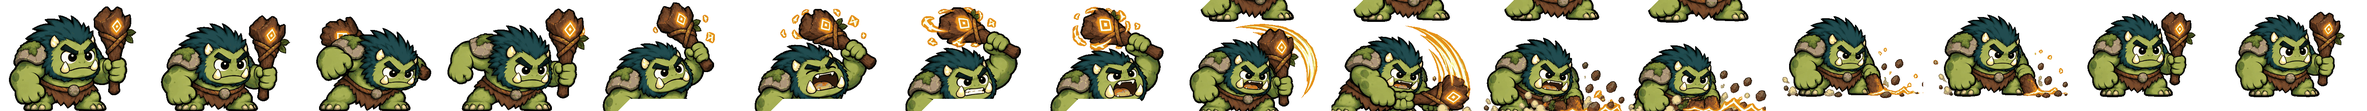
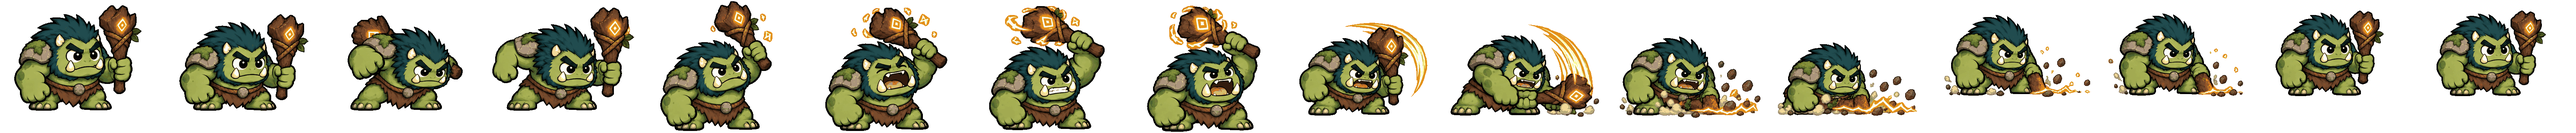
Repack his skill sheets, and stop the raid being over before you see it
Four things, all of them visible and none of them findable by reading code.

The Splitter had a diagonal tear through four frames. The uploads are grids,
but not tidy ones: in the wind-up rows he is drawn taller than his cell and his
feet hang into the row below. The first cut used the even grid and let a seam
DP route round the overlap, and the route it found went through him. No seam is
needed - every boundary on these sheets has a row or column of untouched pixels
within a third of a cell of where the grid says it should be, so a straight cut
at the quietest line separates the frames cleanly and the overhang travels with
the frame it belongs to. Each frame then goes back at its offset from its EVEN
cell origin, because that is the grid he was animated against; the overhang is
the animation, not an error to correct. Two of the Torchswing's boundaries have
no clear line anywhere near the grid - his arc genuinely reaches into the next
cell - so anything touching a cut edge and under 3% of the frame's largest mass
is somebody else's swing and is rubbed out. That was leaving a crescent of
frame 11's arc on frame 10.

He also shrank whenever he used a skill, which is a different problem with the
same cause: the three sheets draw him at three sizes. Against a cell of his
idle sheet he stands 279px tall doing nothing, 268 mid-swing, 261 mid-smash and
215 mid-roar, on canvases that are not even the same width. Nothing in the
[…]

diff --git a/index.html b/index.html
@@ -2132,29 +2132,41 @@ const RAID_BOSS = {
      a one-in-three roll it averages 1.9 and 15.4, and the pool came down to
      match. What was bought with that damage is that no two attempts open the
      same way. */
+  /* Each clip carries its own scale/dx/dy because the three sheets arrived at
+     three different sizes: measured against a cell of his idle sheet, he is
+     drawn 279 pixels tall standing still, 268 in the swing, 261 in the smash
+     and 215 in the warcry, on canvases that are not even the same width. A
+     sprite-view is the slot's width and whatever height its aspect implies,
+     so all three rendered him short, which is what "he gets smaller when he
+     uses a skill" was. These three numbers are not guesses: bossfit.mjs
+     screenshots his slot, differences it against the same slot with nothing
+     in it, and solves for the values that put his silhouette at the same
+     height, centre and foot line as the idle - which they now are, to within
+     a pixel. Re-run it if any of these sheets is ever redrawn; the sheet
+     geometry and these three numbers only make sense together. */
   kit: [
     { id:"uwaaargh", name:"UWAAAARGH!", ico:"\u{1F4E2}",
       blurb:"He stops to scream his own name at you. It is the only moment you will get.",
       battle:{ dmg:0, cd:6, stoke:{ mult:1.6, hits:2 },
                charge:{ spd:0.08, pow:0.20, max:2 } },
       sprite:{ src:"art/boss-skill-warcry.png", frames:16, rows:1, fps:7,
-               aspect:1.6266, scale:1, dx:0, dy:0 } },
+               aspect:1.7913, scale:1.60, dx:9.1, dy:6.2 } },
     { id:"splitter", name:"Splitter", ico:"\u{1FAA8}",
       blurb:"Both hands overhead, then down. The ground goes first and you go second.",
       battle:{ dmg:2.2, pierce:0.7, cd:4 },
       sprite:{ src:"art/boss-skill-smash.png", frames:16, rows:1, fps:9,
-               aspect:1.3285, scale:1, dx:0, dy:0 } },
+               aspect:1.2073, scale:1.15, dx:2.7, dy:17.7 } },
     /* Repacked from a second export. The first arrived as RGB on solid white,
        and keying that left a pale rim on 45.8% of his outline - anti-aliasing
        had smeared the black edge into the background, and the greys it left
        sat under any threshold that did not also eat his tusks. With real alpha
        the same measurement is 0.4%, against 0.8% and 0.0% for the sheets that
-       always had it. Same geometry, so nothing below changed. */
+       always had it. */
     { id:"torchswing", name:"Torchswing", ico:"\u{1F525}",
       blurb:"A flat, sweeping arc that takes everything at knee height with it.",
       battle:{ dmg:1.35, cd:2 },
       sprite:{ src:"art/boss-skill-swing.png", frames:16, rows:1, fps:9,
-               aspect:1.3285, scale:1, dx:0, dy:0 } }
+               aspect:1.3880, scale:1.19, dx:7.3, dy:8.9 } }
   ],
   /* Defence is low for a creature this size, and deliberately. It does not
      change how long anybody survives - that is entirely his power - it only
@@ -3824,8 +3836,8 @@ function spriteConfig(species, stage, level){
 /* Stamped into Settings so a device can say which build it is running. GitHub
    Pages caches index.html and offers no way to set headers on it, so a missing
    feature and a stale page look the same without this. */
-const BUILD_ID = "2026-09-22 e1f00e9";
-const ART_VERSION = "23";
+const BUILD_ID = "2026-09-22 5ffb4c3";
+const ART_VERSION = "24";
 function assetURL(src){
   return /^art\//.test(src) ? src + "?v=" + ART_VERSION : src;
 }
@@ -6362,6 +6374,21 @@ let btShown = null;
 const BT_BEAT  = 400;    // a plain attack: the lunge, then the hit
 const BT_AFTER = 340;    // ...and the pause before the next side moves
 
+/* A raid attempt is watched more than it is played, and it is short - he can
+   end a low-level pet in two blows - so at PvP's pace the whole thing was over
+   before you had read who moved first, and the end card landed on top of the
+   blow that caused it. These four hold the screen still at the points where
+   there is something to look at. The engine settled the fight the moment it
+   was seeded, so none of this can change it; it only decides how long you get
+   to see it. */
+const BT_OPEN     = 900;    // before anyone moves
+const BT_OPEN_BOSS= 2000;   // ...and longer against him: he fills the screen
+const BT_GAP      = 260;    // between one side finishing and the other starting
+const BT_GAP_BOSS = 620;
+const BT_END      = 420;    // the last blow, before the result covers it
+const BT_END_BOSS = 1500;   // the damage tag lives 1000ms; let it finish
+const BT_READ     = 1400;   // a milestone line, which nothing else will repeat
+
 function btClear(){ btTimers.forEach(clearTimeout); btTimers = []; }
 function btWait(fn, ms){ btTimers.push(setTimeout(fn, ms)); }
 
@@ -6411,7 +6438,7 @@ function startBattle(you, foe, opts){
   const foeName = battle.boss ? RAID_BOSS.short : foe.name;
   btSay(battle.turn === "a" ? `${esc(you.name)} moves first.` : `${esc(foeName)} is quicker off the mark.`);
   renderBattle();
-  if (battle.turn === "b") btWait(btFoeTurn, 900);
+  if (battle.turn === "b") btWait(btFoeTurn, battle.boss ? BT_OPEN_BOSS : BT_OPEN);
 }
 
 /* One child, always. The box centres with flex, and flex makes every text node
@@ -6453,21 +6480,23 @@ function btPaintBoss(force){
   $("#bt-foe-pet").innerHTML = spriteHTML(cfg, "okay");
 }
 
-/** The blow has landed: catch the bars up with what the engine already knows. */
+/** The blow has landed: catch the bars up with what the engine already knows.
+    Answers whether it crossed a mark, which is worth an extra beat on screen. */
 function btCatchUp(){
   const before = battle.boss ? btShown.b / battle.b.max : 1;
   btShown = { a: battle.a.cur, b: battle.b.cur, turn: battle.no };
   btBars();
-  if (!battle.boss) return;
+  if (!battle.boss) return false;
   /* Said the moment the bar crosses, over whatever the fight was saying. One
      blow can cross more than one mark, so the deepest is the one that gets
      the line - "he drops to one knee" reads oddly after "he staggers". */
   const crossed = raidCrossed(before, Math.max(0, battle.b.cur) / battle.b.max);
-  if (!crossed.length) return;
+  if (!crossed.length) return false;
   const m = crossed[crossed.length - 1];
   btSay(`<b>${esc(m.title)}.</b> ${esc(m.line)}`);
   $("#bt-foe-lv").textContent = bossPhase(Math.max(0, battle.b.cur) / battle.b.max).note;
   battle.crossed = (battle.crossed || []).concat(crossed.map(x => x.at));
+  return true;
 }
 
 /* The move buttons. A move on cooldown stays on screen with its count rather
@@ -6532,13 +6561,18 @@ function btRun(moveId){
     if (ev.self) btLand(actor, ev.self, false);
     if (ev.burn) btLand(actor, ev.burn, false);
     if (ev.heal) btLand(actor, ev.heal, true);
-    btCatchUp();
+    const crossed = btCatchUp();
 
     btWait(() => {
       btLock = false;
-      if (battle.over) return btFinish();
+      // A blow that took him past a mark put a line on screen; it is the only
+      // time it is said, so it gets read before anything replaces it.
+      const read = crossed ? BT_READ : 0;
+      if (battle.over)
+        return btWait(btFinish, read + (battle.boss ? BT_END_BOSS : BT_END));
       renderBattle();
-      if (battle.turn === "b") btWait(btFoeTurn, 260);
+      if (battle.turn === "b")
+        btWait(btFoeTurn, read + (battle.boss ? BT_GAP_BOSS : BT_GAP));
       else if (ev.again) btSay(`<b>${battle.a.name}</b> is fast enough to go again.`);
     }, BT_AFTER);
   }, beat);
@@ -6566,11 +6600,27 @@ function btFinish(){
   const won = battle.winner === "a";
   const left = won ? battle.a.cur : battle.b.cur;
   const of   = won ? battle.a.max : battle.b.max;
+  const turns = `${battle.no} turn${battle.no === 1 ? "" : "s"}`;
   $("#bt-end-ico").textContent = won ? "\u{1F3C6}" : "\u{1F4A4}";
   $("#bt-end-h").textContent = won ? "You win" : "You lost";
-  $("#bt-end-p").textContent = won
-    ? `${battle.a.name} saw off ${battle.b.name} in ${battle.no} turns, with ${left} of ${of} left.`
-    : `${battle.b.name} had ${left} of ${of} still in the tank after ${battle.no} turns.`;
+  /* A raid is scored on what you took off him, not on what is left of him -
+     "2800 of 2800 still in the tank" is a true sentence that tells an attempt
+     nothing about itself, and the whole point of one attempt is its share.
+     Losing is the normal outcome, so the line has to be worth reading anyway. */
+  if (battle.boss){
+    /* What this attempt took, which is hpAtStart minus what is left - not
+       1 - cur/max. He enters a raid on whatever everybody else has already
+       left him, so that figure is the raid's progress and would credit one
+       attempt with weeks of other people's running. */
+    const on   = Math.max(0, battle.b.cur) / battle.b.max * 100;
+    const chip = (battle.hpAtStart - Math.max(0, battle.b.cur)) / battle.b.max * 100;
+    const took = chip >= 0.05 ? `took ${chip.toFixed(1)}% off him` : "did not mark him";
+    $("#bt-end-p").textContent = won
+      ? `${battle.a.name} put ${RAID_BOSS.short} down in ${turns}, finishing the last ${chip.toFixed(1)}%.`
+      : `${turns}, and you ${took}. He is on ${on.toFixed(1)}%.`;
+  } else $("#bt-end-p").textContent = won
+    ? `${battle.a.name} saw off ${battle.b.name} in ${turns}, with ${left} of ${of} left.`
+    : `${battle.b.name} had ${left} of ${of} still in the tank after ${turns}.`;
   $("#bt-end").hidden = false;
   $("#bt-end-mark").textContent = "";
   // A real attack is spent. Offering a rematch here would read as a way to

diff --git a/ART-SPEC.md b/ART-SPEC.md
@@ -186,6 +186,31 @@ Real problems from the first two rounds, worth avoiding:
 | Feet not on a common baseline | The pet hops 34 px between frames — still visible today |
 | Uneven frame widths, or gutters | Frames land half-and-half; you see two half-pets at once |
 | Soft or anti-aliased edges | Fringing once the app renders it pixelated |
+| Figures drawn over their cell's edges | A cut on the even grid went through four frames of a skill |
+| Sheets of one creature drawn at different sizes | It shrinks whenever it uses that skill |
+
+The last two are what the raid boss's four sheets arrived as, and they are
+worth reading together because the fix for one is not the fix for the other.
+
+His wind-up frames are drawn taller than the cell they sit in, so his feet
+hang into the row below. Cutting on the even grid takes his legs off; letting
+a seam find its own way round leaves a diagonal tear through him, which is
+what shipped first. Neither is needed: every boundary on these sheets has a
+row or column of untouched pixels within a third of a cell of where the grid
+says it should be, so a straight cut at the quietest line separates the frames
+and the overhang comes with the frame it belongs to. The overhang is the
+animation, not an error to correct, so each frame goes back at its offset from
+its **even** cell origin and the whole sheet is widened to hold the largest.
+
+Size is the separate problem. Measured against a cell of his idle sheet he
+stands 279 px tall doing nothing, 268 mid-swing, 261 mid-smash and 215
+mid-roar, on canvases that are not all the same width. Nothing in the packing
+can tell: each sheet is internally consistent. It shows up only on screen,
+because a `sprite-view` is the slot's width and whatever height its `aspect`
+implies, so a shorter drawing renders a smaller creature. `scale`, `dx` and
+`dy` are what correct it, and they are measured rather than guessed - shoot
+the slot, difference it against the same slot holding nothing, and solve for
+the values that put the silhouette at the idle's height, centre and foot line.
 
 ## 10. Generation prompts
 
